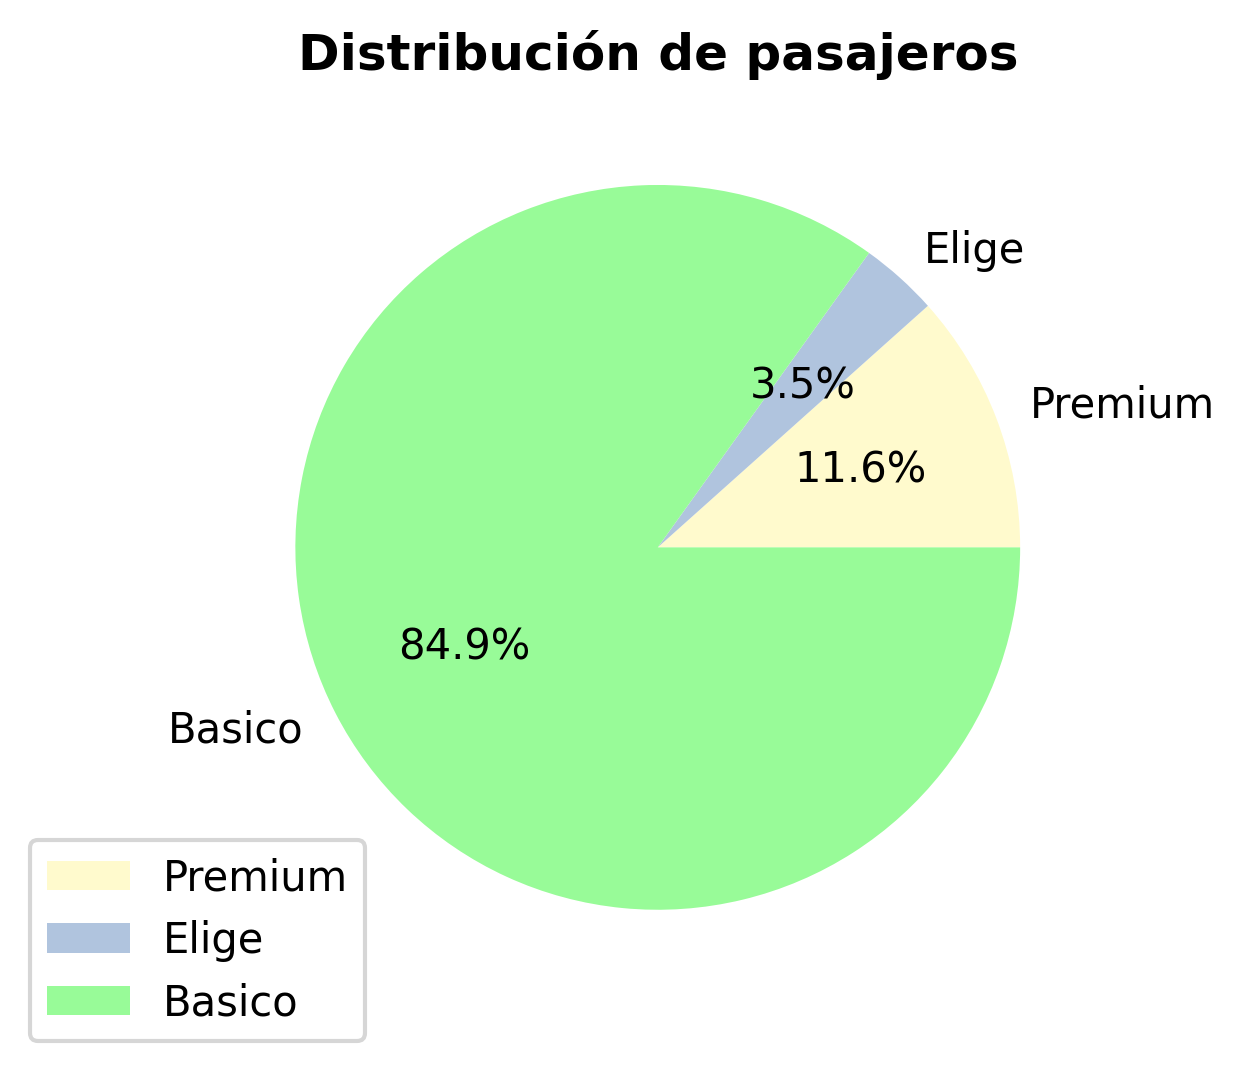
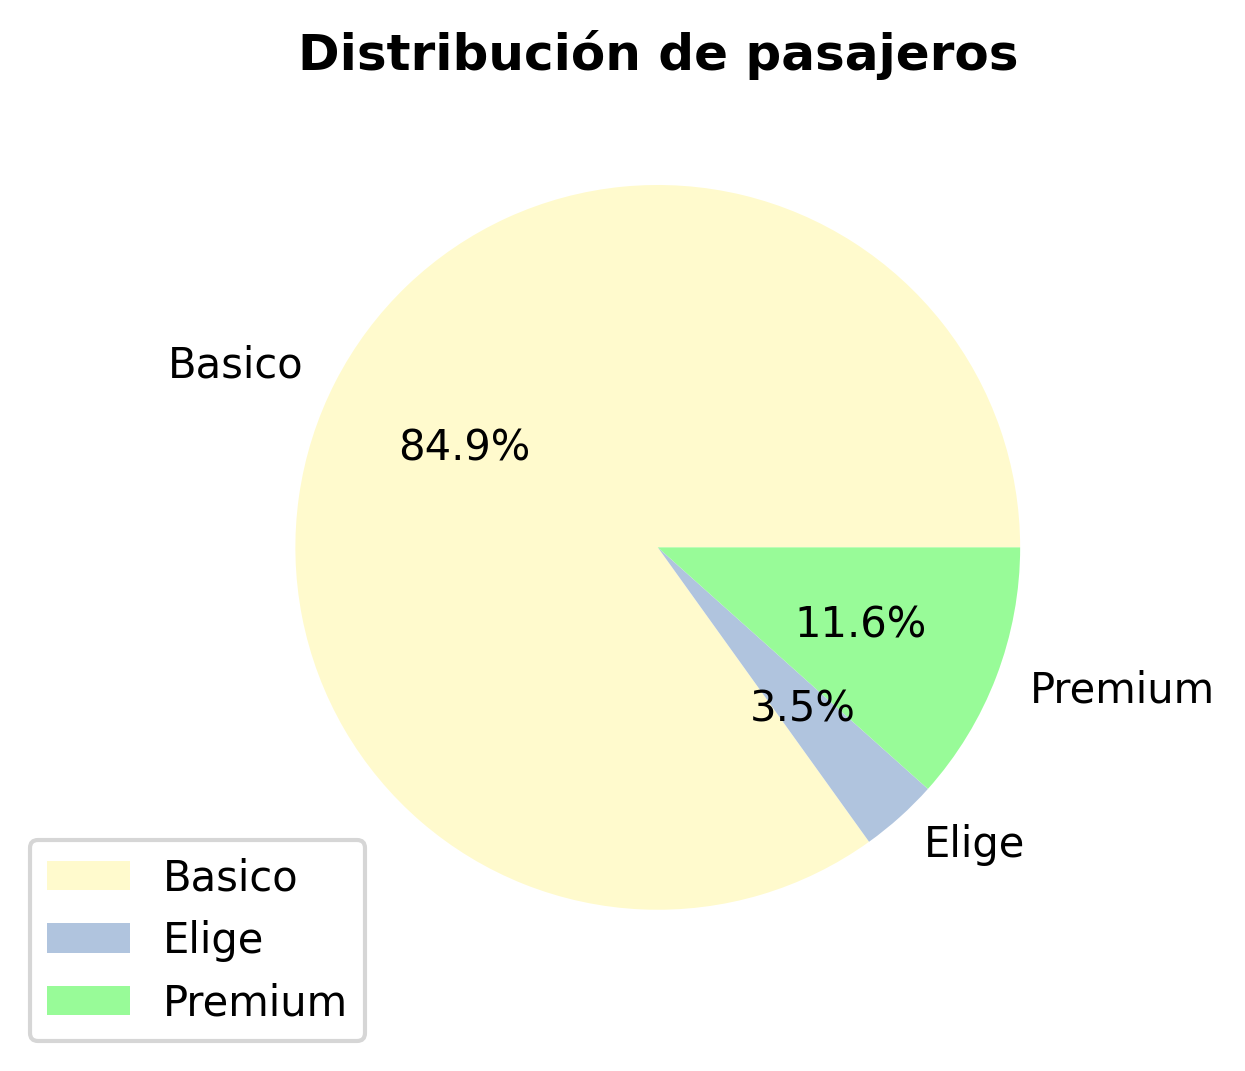
fix: change get tickets sold to a group by

diff --git a/src/robin/plotter/entities.py b/src/robin/plotter/entities.py
@@ -149,20 +149,18 @@ class KernelPlotter:
         sorted_data = dict(sorted(data.items(), key=lambda x: x[0]))
         return sorted_data
     
-    def _get_tickets_sold_pie_chart(self):
-        data = {}
-        for row in self.df.iterrows():
-            seat = row[1]["seat"]
+    def _get_tickets_sold_pie_chart(self) -> Mapping[str, int]:
+        """
+        Get the percentage of tickets sold per seat type.
 
-            if seat is np.nan:
-                continue
-
-            if seat not in data:
-                data[seat] = 0
-
-            data[seat] += 1
-
-        return {seat: data[seat] / sum(data.values()) for seat in data}
+        Returns:
+            Mapping[str, int]: Dictionary with the percentage of tickets sold per seat type.
+        """
+        tickets_sold = self.df.groupby(by=['seat']).size()
+        # Calculate the percentage of tickets sold per seat type
+        total_tickets = tickets_sold.sum()
+        tickets_sold = tickets_sold.apply(lambda x: x / total_tickets * 100)
+        return tickets_sold.to_dict()
 
     def _plot_bar_chart(
             self,
@@ -357,6 +355,6 @@ if __name__ == "__main__":
 
     #kernel_plotter.plot_tickets_sold(save_path='total_tickets_sold.png')
     #kernel_plotter.plot_tickets_by_user(save_path='tickets_sold_per_usertype.png')
-    kernel_plotter.plot_capacity(service_id='03063_01-06-2023-06.30')
+    #kernel_plotter.plot_capacity(service_id='03063_01-06-2023-06.30')
     #kernel_plotter.plot_pairs(save_path='pairs.png')
-    #kernel_plotter.plot_tickets_sold_pie_chart(save_path='pie.png')
+    kernel_plotter.plot_tickets_sold_pie_chart()
